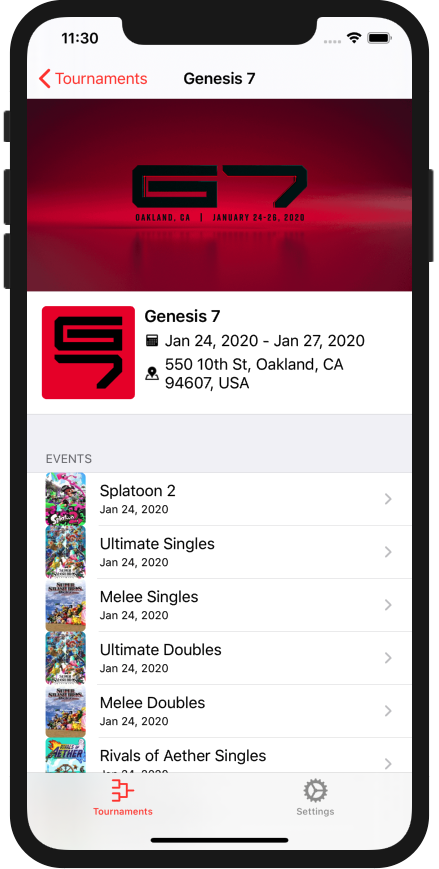
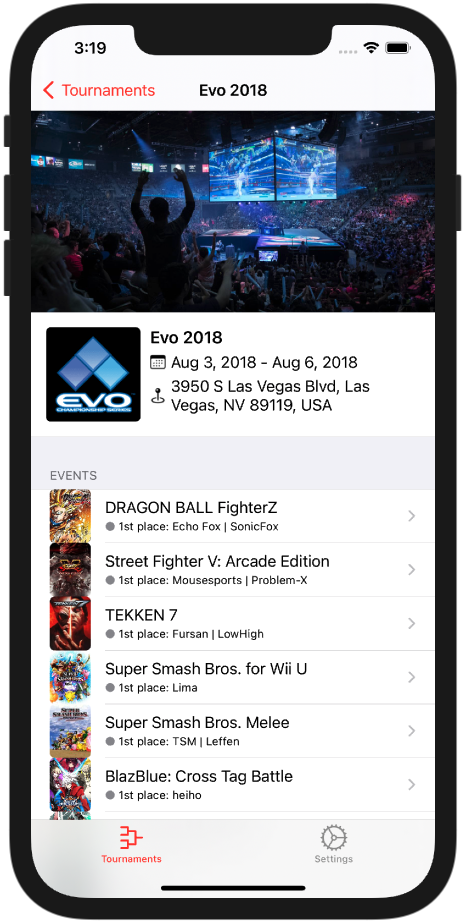
Updated screenshots

diff --git a/README.md b/README.md
@@ -8,12 +8,12 @@ An upcoming iOS mobile client for the [smash.gg](https://smash.gg/) website, wri
     - [x] Choose which tournaments appear based on their featured video games
     - [x] Ability to only show featured tournaments, and/or upcoming tournaments
     - [ ] Search for any tournament by name
-- [ ] Tournament Details
+- [x] Tournament Details
     - [x] Name, Date & Location
     - [x] Events & Video Games
         - [x] Standings for each event
-        - [ ] Brackets for each event
-        - [ ] Shortcuts to the event's live streams 
+        - [x] Brackets for each event
+        - [x] Shortcuts to the event's live streams 
 
 ## Screenshots
 [<img src="screenshots/pocket-gg-1.png" width="295" height="584">](screenshots/pocket-gg-1.png)
@@ -25,3 +25,7 @@ An upcoming iOS mobile client for the [smash.gg](https://smash.gg/) website, wri
 [<img src="screenshots/pocket-gg-4.png" width="295" height="584">](screenshots/pocket-gg-4.png)
 &nbsp;
 [<img src="screenshots/pocket-gg-5.png" width="295" height="584">](screenshots/pocket-gg-5.png)
+&nbsp;
+[<img src="screenshots/pocket-gg-6.png">](screenshots/pocket-gg-6.png)
+&nbsp;
+[<img src="screenshots/pocket-gg-7.png">](screenshots/pocket-gg-7.png)
